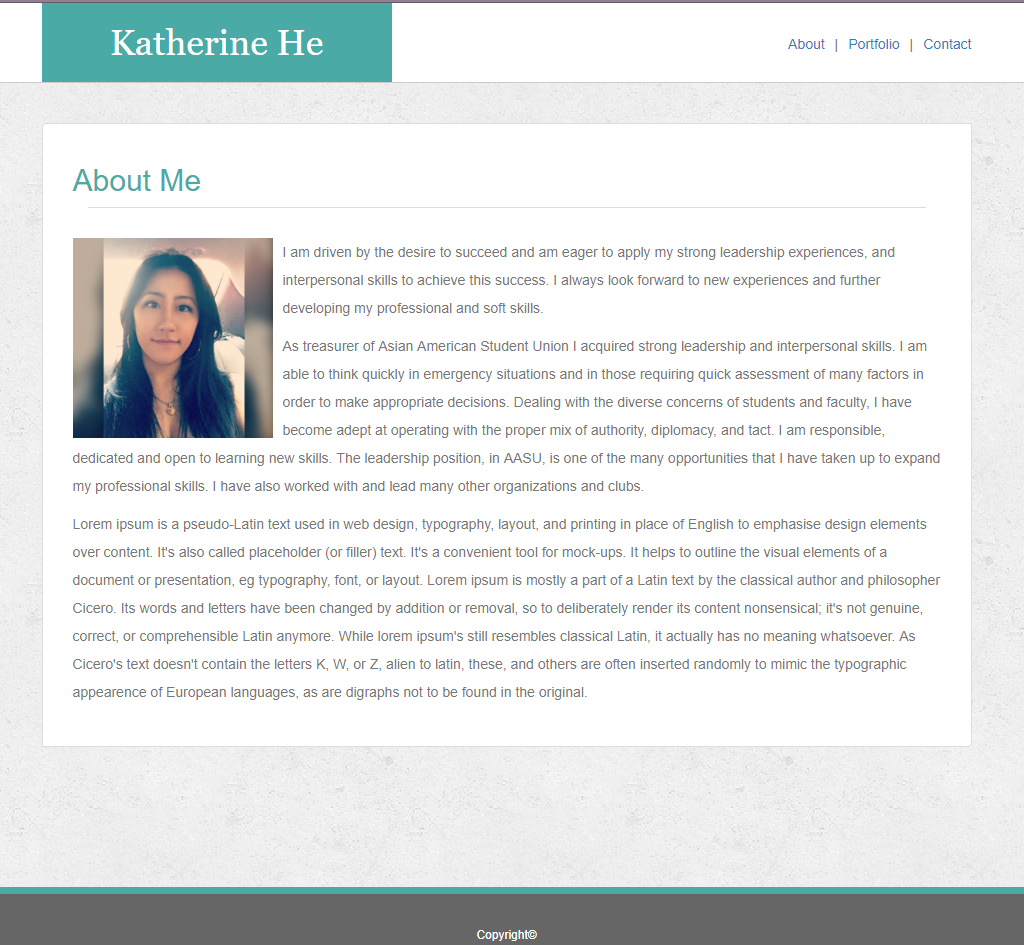
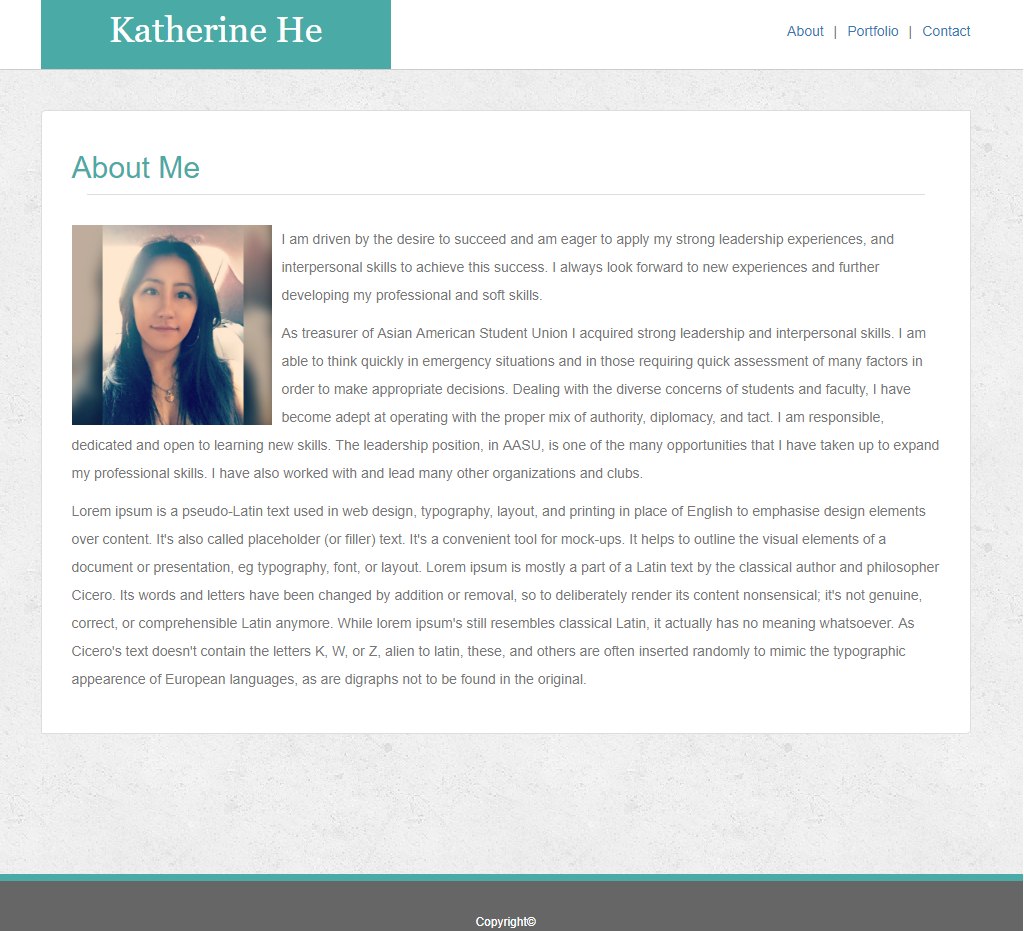
added in more project links and removed un-needed sections

Changed region(s): [[0.0625, 0.1557, 0.9375, 0.7476], [0.0, 0.0, 1.0, 0.0934], [0.4688, 0.9656, 0.5312, 0.9968]]

diff --git a/index.html b/index.html
@@ -1,7 +1,7 @@
 <!DOCTYPE html>
 <html lang="en">
 <head>
-  <title>Bootstrap Example</title>
+  <title>Katherine's Portfolio</title>
   <meta charset="utf-8">
   <meta name="viewport" content="width=device-width, initial-scale=1">
   <!-- bootstrap latest version is v4.0.0 -->
@@ -42,8 +42,7 @@
         <ul class="navbar-nav ml-auto">
           <li class="nav-item active"><a href="#" class="nav-link">Home</a> </li>
           <li class="nav-item"><a href="#about" class="nav-link">About</a> </li>
-          <li class="nav-item"><a href="#service" class="nav-link">Services</a> </li>
-          <li class="nav-item"><a href="#team" class="nav-link">Team</a> </li>
+          <li class="nav-item"><a href="#projects" class="nav-link">Projects</a> </li>
           <li class="nav-item"><a href="#contact" class="nav-link">Contact</a> </li>
         </ul>
       </div>
@@ -66,11 +65,10 @@
     
     <!-- The slideshow -->
     <div class="carousel-inner">
+
       <div class="carousel-item active">
         <img src="images/bg-1920x1080-1.jpg" alt="Naruto" width="1100" height="500">
-        <div class="carousel-caption">
-        <!-- removed -->
-        </div>
+        <div class="carousel-caption"></div>
       </div>
 
       <div class="carousel-item">
@@ -80,6 +78,7 @@
       <div class="carousel-item">
         <img src="images/bg-1920x1080-3.jpg" alt="Tree" width="1100" height="500">
       </div>
+
     </div>
     
     <!-- Left and right controls -->
@@ -147,70 +146,6 @@
 
 
 
-  <!-- Welcome Section -->
-  <div class="container-fluid padding">
-    <!-- welcom class is personal css -->
-    <div class="row welcome text-center">
-      <div class="col-12">
-        <hi class="display-4">Relevent Skills</hi>
-      </div>
-      <!-- <div class="col-12">
-        <p class="lead">Lorem ipsum dolor sit amet consectetur adipisicing elit. Est minima, maxime unde architecto quae quibusdam, dolores praesentium labore voluptates aliquam officia magnam modi eos nobis laudantium repellendus quos ipsam amet. Lorem ipsum dolor sit amet consectetur adipisicing elit. Maxime, veritatis id. Sit provident excepturi dolores illum asperiores ratione iste, cum ut hic odio similique pariatur eveniet aperiam, blanditiis necessitatibus veniam!</p>
-      </div> -->
-    </div>
-  </div>
-
-
-
-
-
-
-  <!-- Three Column Section -->
-  <button class="fun btn btn-outline-secondary btn-lg" data-toggle="collapse" data-target="#skills">Expand to see skills</button>
-  <div id="skills" class="collapse">
-      <!-- <div class="container-fluid padding">
-          <div class="row text-center padding">
-            <div class="col-xs-12 col-sm-6 col-md-4">
-              <i class="fas fa-code"></i>
-              <h3>HTML5</h3>
-              <p>Built with the lates version of HTML, HTML5</p>
-            </div>
-            <div class="col-xs-12 col-sm-6 col-md-4">
-              <i class="fas fa-bold"></i>
-              <h3>Bootstrap</h3>
-              <p>Built with the lates version of Bootstrap, Bootstrap 4</p>
-            </div>
-            <div class="col-sm-12 col-md-4">
-              <i class="fab fa-css3"></i>
-              <h3>CSS</h3>
-              <p>Built with the lates version of CSS, CSS3</p>
-            </div>
-          </div>
-          <hr class="my-4">
-        </div> -->
-
-        <div id="service" class="container-fluid padding">
-            <div class="row padding">
-              <div class="col-lg-6">
-                <h2>Current Life Goals</h2>
-                <ul>
-                  <li>Attending Columbia Universidy Coding Bootcamp: GOAL is to pass the School</li>
-                  <li>Created this website: GOAL is to make this the main project page</li>
-                  <li>Living on a tight budget: GOAL is to get a better job to live comfortably</li>
-                </ul>
-              </div>
-              <div class="col-lg-6">
-                <img src="images/placeholder-1400x875.jpg" alt="450x317" class="img-fluid">
-              </div>
-            </div>
-          </div>
-
-  </div>
-
-
-
-
-
 
   <!-- Fixed Background -->
   <figure>
@@ -225,7 +160,7 @@
 
 
   <!-- PROJECT big Title -->
-  <div class="container-fluid padding">
+  <div class="container-fluid padding" id="projects">
       <div class="row welcome text-center">
           <div class="col-12">
               <h1 class="display-4">Projects</h1>
@@ -246,8 +181,8 @@
           <div class="card">
               <a href="https://kitkat0202.github.io/responsive-portfolio/" target="_blank"><img src="images/BP-index.png" alt="square pic" class="card-img-top"></a>
               <div class="card-body">
-                  <h4 class="card-title">Responsive_Portfolio</h4>
-                  <p class="card-text">This project is the first complete portfolio I ever completed. It is a very basic 3 page portfolio, that is responsive to screen size without the use of BOOTSTRAP. There is a similar version of this in BOOTSTRAP, which can be found at <a href="https://kitkat0202.github.io/bootstrap-portfolio/" target="_blank">Bootstrap_version</a>.</p>
+                  <h4 class="card-title">Responsive Portfolio</h4>
+                  <p class="card-text">This is a very basic three page portfolio that is mobile responsive. A similar BOOTSTRAP can be found at <a href="https://kitkat0202.github.io/bootstrap-portfolio/" target="_blank">Bootstrap_version</a>.</p>
               </div>
           </div>
       </div>
@@ -257,7 +192,7 @@
           <div class="card">
               <a href="https://kitkat0202.github.io/Word-Guess-Game/" target="_blank"><img src="images/welcome-page.png" alt="square pic" class="card-img-top"></a>
               <div class="card-body">
-                  <h4 class="card-title">Anime_Word_Guess</h4>
+                  <h4 class="card-title">Anime Word Guess</h4>
                   <p class="card-text">If you like anime and guessing games please try out this game. It is fun, light hearted and can give you acouble of laughs. There is also a soft relaxing melody when you start the game.</p>
               </div>
           </div>
@@ -266,10 +201,10 @@
       <!-- card 3 -->
       <div class="col-md-4">
           <div class="card">
-              <a href="#" target="_blank"><img src="images/sq-placeholder.png" alt="square pic" class="card-img-top"></a>
+              <a href="#" target="_blank"><img src="images/unit-4-game.png" alt="square pic" class="card-img-top"></a>
               <div class="card-body">
-                  <h4 class="card-title">Project 2</h4>
-                  <p class="card-text">Lorem ipsum, dolor sit amet consectetur adipisicing elit. Maxime voluptatum reiciendis unde autem. Inventore tempore porro accusantium incidunt pariatur, obcaecati animi culpa sit non qui, repudiandae facere eveniet rerum aliquid.</p>
+                  <h4 class="card-title">Pokemon Gamegirl Color</h4>
+                  <p class="card-text">Play this very original Gamegirl COLOR game. The point of the game is to choose the correct starter pokemon to defete the rest. Your attack will grow whenever you attack, but the computer's wont.</p>
               </div>
           </div>
       </div>
@@ -277,10 +212,10 @@
       <!-- card 4 -->
       <div class="col-md-4">
           <div class="card">
-              <a href="#" target="_blank"><img src="images/sq-placeholder.png" alt="square pic" class="card-img-top"></a>
+              <a href="#" target="_blank"><img src="images/KH-Crystal-Game.png" alt="square pic" class="card-img-top"></a>
               <div class="card-body">
-                  <h4 class="card-title">Project 2</h4>
-                  <p class="card-text">Lorem ipsum, dolor sit amet consectetur adipisicing elit. Maxime voluptatum reiciendis unde autem. Inventore tempore porro accusantium incidunt pariatur, obcaecati animi culpa sit non qui, repudiandae facere eveniet rerum aliquid.</p>
+                  <h4 class="card-title">Kingdom Hearts Crystal Numbers</h4>
+                  <p class="card-text">Need a mindless, fun, simple game to play? Look no further this game is simple fun and never ending. Add up your points to equal the computer's and you win, go over and you lose.</p>
               </div>
           </div>
       </div>
@@ -288,33 +223,15 @@
       <!-- card 5 -->
       <div class="col-md-4">
           <div class="card">
-              <a href="#" target="_blank"><img src="images/sq-placeholder.png" alt="square pic" class="card-img-top"></a>
+              <a href="#" target="_blank"><img src="images/Diablo-Trivia-Game.png" alt="square pic" class="card-img-top"></a>
               <div class="card-body">
-                  <h4 class="card-title">Project 2</h4>
-                  <p class="card-text">Lorem ipsum, dolor sit amet consectetur adipisicing elit. Maxime voluptatum reiciendis unde autem. Inventore tempore porro accusantium incidunt pariatur, obcaecati animi culpa sit non qui, repudiandae facere eveniet rerum aliquid.</p>
+                  <h4 class="card-title">Diablo Trivia Game</h4>
+                  <p class="card-text">Do you think you know the Diablo lore? Play this Trivia game and test your knowlegdge. You have to be quick though, there is only 20 seconds to answer each question.</p>
               </div>
           </div>
       </div>
 
     </div>
-  </div>
-
-
-
-
-
-  <!-- Two Column Section -->
-  <div class="container-fluid padding">
-      <div class="row padding">
-          <div class="col-lg-6">
-              <h2>Our Philosophy</h2>
-              <p>Lorem ipsum dolor sit amet consectetur, adipisicing elit. Praesentium quod ipsam veniam officiis libero vel amet nobis at iusto sit, quidem, distinctio ipsum repudiandae ut modi et dolores. Magni, magnam.</p>
-              <p>Lorem ipsum dolor sit amet consectetur adipisicing elit. Harum doloremque nemo officiis adipisci consequuntur neque animi mollitia, repellat accusantium voluptatibus numquam ad iure blanditiis et culpa sapiente ea, cupiditate repellendus? Lorem ipsum dolor sit amet consectetur adipisicing elit. Commodi incidunt aliquam eum laboriosam. Qui fugiat voluptate omnis, commodi placeat quos at porro nesciunt earum. Atque repellat assumenda beatae consequuntur debitis! Lorem ipsum dolor sit amet consectetur adipisicing elit. Corrupti deleniti quo ratione nemo. Possimus debitis in ab placeat, sint, quasi similique est non consectetur ipsum amet, illo harum maxime neque.</p>
-          </div>
-          <div class="col-lg-6"><img src="images/placeholder-1366x768.jpg" alt="450x317" class="img-fluid">
-          </div>
-      </div>
-      <hr class="my-4">
   </div>
 
 
@@ -325,14 +242,14 @@
   <div id="contact" class="container-fluid padding">
     <div class="row text-center padding">
       <div class="col-12">
-        <h2>Connect</h2>
+        <h2>Be My Friend Connect With Me</h2>
       </div>
       <div class="col-12 social padding">
-          <a href="https://facebook.com"><i class="fab fa-facebook"></i></a>
-          <a href="https://twitter.com"><i class="fab fa-twitter"></i></a>
-          <a href="https://plus.google.com"><i class="fab fa-google-plus-g"></i></a>
-          <a href="https://instagram.com"><i class="fab fa-instagram"></i></a>
-          <a href="https://youtube.com"><i class="fab fa-youtube"></i></a>
+          <a href="https://www.facebook.com/katherine.he" target="_blank"><i class="fab fa-facebook"></i></a>
+          <a href="https://github.com/kitkat0202" target="_blank"><i class="fab fa-github"></i></a>
+          <a href="https://plus.google.com/u/0/+KatherineHe" target="_blank"><i class="fab fa-google-plus-g"></i></a>
+          <a href="hhttps://www.instagram.com/kitkat020290/" target="_blank"><i class="fab fa-instagram"></i></a>
+          <a href="https://www.linkedin.com/in/katherinehe2/" target="_blank"><i class="fab fa-linkedin-in"></i></a>
       </div>
     </div>
   </div>
@@ -342,36 +259,24 @@
 
 
   <!-- Footer -->
-  <footer>
+  <footer id="footer">
       <div class="container-fluid padding">
           <div class="row text-center">
-              <div class="col-md-4">
-                  <img src="images/placeholder-logo-2.png" alt="logo" style="width: 100px; height: 50px; margin: 2px auto;">
+              <div class="col-md-6">
                   <hr class="light">
-                  <p>555-555-5555</p>
-                  <p>example@gmail.com</p>
-                  <p>100 street name</p>
-                  <p>city, state, 00000</p>
+                  <h5>Contact Info</h5>
+                  <hr class="light">
+                  <p>he.katherine321@gmail.com</p>
+                  <p>sakura_saki321@yahoo.com</p>
               </div>
 
-              <div class="col-md-4">
+              <div class="col-md-6">
                   <hr class="light">
-                  <h5>Our Hours</h5>
+                  <h5>Study Hours</h5>
                   <hr class="light">
-                  <p>Monday - Friday: 9am -5pm</p>
-                  <p>Saturday: 12pm -2pm</p>
-                  <p>Sunday: 11am -2pm</p>
-              </div>
-
-              <div class="col-md-4">
-                  <hr class="light">
-                  <h5>Service Area</h5>
-                  <hr class="light">
-                  <p>city, state, 00000</p>
-                  <p>city, state, 00000</p>
-                  <p>city, state, 00000</p>
-                  <p>city, state, 00000</p>
-                  <p>city, state, 00000</p>
+                  <p>Tuesday: 7pm -10pm</p>
+                  <p>Thursday + Saturday: 11am -5pm</p>
+                  <p>Sunday: 1pm -6pm</p>
               </div>
 
               <div class="col-12">

diff --git a/style.css b/style.css
@@ -7,6 +7,11 @@ html, body {
     color: #222;
 }
 
+#demo {
+    width: 80%;
+    margin: 10px auto;
+}
+
 
 /* Navbar */
 .navbar {
@@ -129,8 +134,8 @@ ul.sub-list li {
     color: #3b5998;
 }
 
-.fa-twitter {
-    color: #00aced;
+.fa-github {
+    color: #000;
 }
 
 .fa-google-plus-g {
@@ -138,11 +143,11 @@ ul.sub-list li {
 }
 
 .fa-instagram {
-    color: #517fa8;
+    color: #ffc838;
 }
 
-.fa-youtube {
-    color: #bb0000;
+.fa-linkedin-in {
+    color: #0077B5;
 }
 
 .fa-google-puls-g {
@@ -150,10 +155,10 @@ ul.sub-list li {
 }
 
 .fa-facebook:hover,
-.fa-twitter:hover,
+.fa-github:hover,
 .fa-google-plus-g:hover,
 .fa-instagram:hover,
-.fa-youtube:hover,
+.fa-linkedin-in:hover,
 .fa-google-puls-g:hover {
     color: #d5d5d5;
 }
